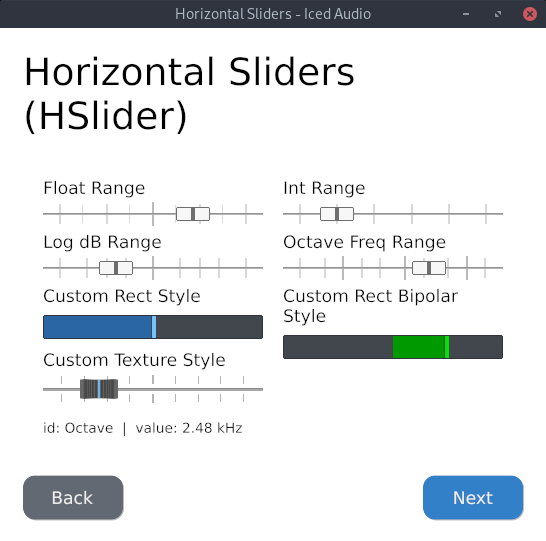
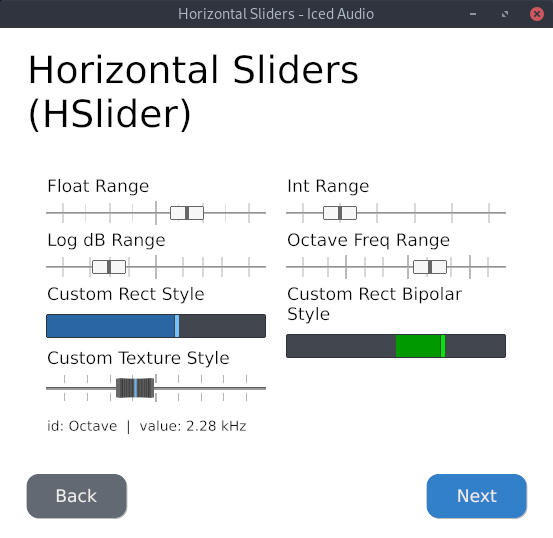
updated screenshots

diff --git a/src/style/xy_pad.rs b/src/style/xy_pad.rs
@@ -110,11 +110,11 @@ impl StyleSheet for Default {
                 color: Color::from_rgb(0.97, 0.97, 0.97),
                 diameter: 11,
                 border_width: 2,
-                border_color: Color::from_rgb(0.43, 0.43, 0.43),
+                border_color: Color::from_rgb(0.4, 0.4, 0.4),
             }),
             back_color: Color::from_rgb(0.97, 0.97, 0.97),
             border_width: 1,
-            border_color: Color::from_rgb(0.43, 0.43, 0.43),
+            border_color: Color::from_rgb(0.4, 0.4, 0.4),
             center_line_width: 1,
             center_line_color: [0.56, 0.56, 0.56, 0.4].into(),
         }
@@ -128,7 +128,7 @@ impl StyleSheet for Default {
                 color: Color::from_rgb(0.93, 0.93, 0.93),
                 diameter: 11,
                 border_width: 2,
-                border_color: Color::from_rgb(0.43, 0.43, 0.43),
+                border_color: Color::from_rgb(0.4, 0.4, 0.4),
             }),
             ..active
         }
@@ -142,7 +142,7 @@ impl StyleSheet for Default {
                 color: Color::from_rgb(0.92, 0.92, 0.92),
                 diameter: 9,
                 border_width: 2,
-                border_color: Color::from_rgb(0.43, 0.43, 0.43),
+                border_color: Color::from_rgb(0.4, 0.4, 0.4),
             }),
             ..active
         }

diff --git a/examples/tour.rs b/examples/tour.rs
@@ -533,8 +533,8 @@ pub mod style {
         fn active(&self) -> h_slider::Style {
             h_slider::Style::Texture(
             h_slider::TextureStyle {
-                rail_colors: ([0.06, 0.06, 0.06, 0.75].into(),
-                              [0.46, 0.46, 0.46, 0.75].into()),
+                rail_colors: ([0.0, 0.0, 0.0, 0.9].into(),
+                              [0.36, 0.36, 0.36, 0.75].into()),
                 rail_heights: (1, 2),
                 texture: self.0.clone(),
                 handle_width: 38,
@@ -577,8 +577,8 @@ pub mod style {
         fn active(&self) -> v_slider::Style {
             v_slider::Style::Texture(
             v_slider::TextureStyle {
-                rail_colors: ([0.06, 0.06, 0.06, 0.75].into(),
-                              [0.46, 0.46, 0.46, 0.75].into()),
+                rail_colors: ([0.0, 0.0, 0.0, 0.9].into(),
+                              [0.36, 0.36, 0.36, 0.75].into()),
                 rail_widths: (1, 2),
                 texture: self.0.clone(),
                 handle_height: 38,

diff --git a/src/style/knob.rs b/src/style/knob.rs
@@ -217,8 +217,8 @@ impl StyleSheet for Default {
         VectorCircleStyle {
             knob_color: Color::from_rgb(0.97, 0.97, 0.97),
             knob_border_width: 1,
-            knob_border_color: Color::from_rgb(0.43, 0.43, 0.43),
-            notch_color: Color::from_rgb(0.43, 0.43, 0.43),
+            knob_border_color: Color::from_rgb(0.4, 0.4, 0.4),
+            notch_color: Color::from_rgb(0.4, 0.4, 0.4),
             notch_border_width: 0,
             notch_border_color: Color::TRANSPARENT,
             notch_scale: 0.17.into(),

diff --git a/src/style/v_slider.rs b/src/style/v_slider.rs
@@ -250,9 +250,9 @@ impl StyleSheet for Default {
                 color: Color::from_rgb(0.97, 0.97, 0.97),
                 height: 34,
                 notch_height: 4,
-                notch_color: Color::from_rgb(0.43, 0.43, 0.43),
+                notch_color: Color::from_rgb(0.4, 0.4, 0.4),
                 border_radius: 2,
-                border_color: Color::from_rgb(0.43, 0.43, 0.43),
+                border_color: Color::from_rgb(0.4, 0.4, 0.4),
                 border_width: 1,
             },
         }

diff --git a/src/style/h_slider.rs b/src/style/h_slider.rs
@@ -250,9 +250,9 @@ impl StyleSheet for Default {
                 color: Color::from_rgb(0.97, 0.97, 0.97),
                 width: 34,
                 notch_width: 4,
-                notch_color: Color::from_rgb(0.43, 0.43, 0.43),
+                notch_color: Color::from_rgb(0.4, 0.4, 0.4),
                 border_radius: 2,
-                border_color: Color::from_rgb(0.43, 0.43, 0.43),
+                border_color: Color::from_rgb(0.4, 0.4, 0.4),
                 border_width: 1,
             },
         }
